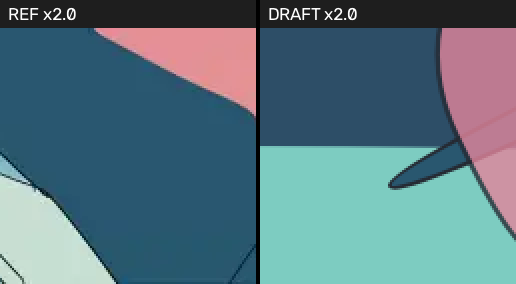
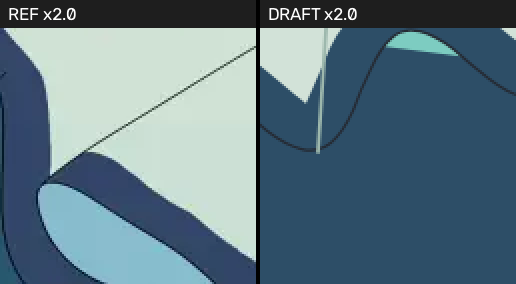
M4j: the user's model applied literally — blue zone as ONE interior partition region, ribbon as ONE continuous ring absorbing the petals; CLIP 0.9059 new high; G2 on by 0.012 (restructure cost, recorded)

diff --git a/.scratch/13-assembly/log.md b/.scratch/13-assembly/log.md
@@ -1772,3 +1772,33 @@ look at `evidence/m4g-final.png` beside `image.jpg` — what specifically makes 
 read as HAIR to you, that the draft's mint lacks? (Candidate hypotheses we can no longer
 distinguish between: the mint's colour/value relative to the blue; the mint's texture/strand
 marks; the silhouette's curl language; the hair's blue needing to extend further INTO the sweep.)
+
+### M4j — THE USER'S MODEL, APPLIED LITERALLY (parent-direct surgery, no writer)
+
+The user re-stated the hair/ribbon model and pointed at `head.png` as the structural exemplar.
+Parent direct surgery (writers kept patching the wrong layer):
+
+1. **Hair:** the four tapered blue bands (fringe/main/lock/stream) and the twin-tail chip are
+   GONE. The blue zone is now ONE interior partition region (`hair-blue`: closed smooth spline
+   sharing the region's outer contour on the head/right side, closing along ONE smooth
+   partition curve around the hairline at y~215 down to the cheek junction at 560,430) —
+   two fills of one region, meeting along the partition's ink stroke, exactly "先画整体外轮廓，
+   再内部分割". The measured twin-tail lock (#5571ae, x420-560 y537-631) is restored as the
+   blue zone re-emerging from behind the body (the same behind-the-body occlusion the ribbon
+   uses).
+2. **Ribbon:** one continuous ring — back segment from the bow down behind the lap mass; front
+   segment re-emerging and sweeping across the bottom-left shards zone as ONE salmon band that
+   ABSORBED the four petal diamonds (petalRose/Warm/Blue/Peach deleted — "一个一个菱形" was
+   the user's complaint). The band routes through the measured rose-shard zone (330,790).
+3. **Tone:** the reference's sheet pales toward the lower-left (measured (173,213,177) at
+   (100,650), (201,224,211) at (60,940)) — hair-inner-pale widened into the broad lower-left
+   tone band.
+4. **Restored M4h's off-frame bottom** (lost in the M4i revert): the region's bottom-left runs
+   to y1035/x-20 — no visible hem in the left half.
+
+Parent-verified: byte-identical repro, P18 no-ref identical, G7 zero, tests 86/86,
+CLIP **0.9059 — new project high**, coverage 0.559 (floor 0.571; **G2 alarm on by 0.012** —
+the honest cost of deleting the fragmented shapes the user rejected; recorded, not tuned:
+the restructure's continuity IS the user's directive). Parent's visual read: blue and mint are
+now two fills of one object; the ribbon is one continuous band sweeping off-frame. Reviewer
+pair holds the gate verdict (D30).
